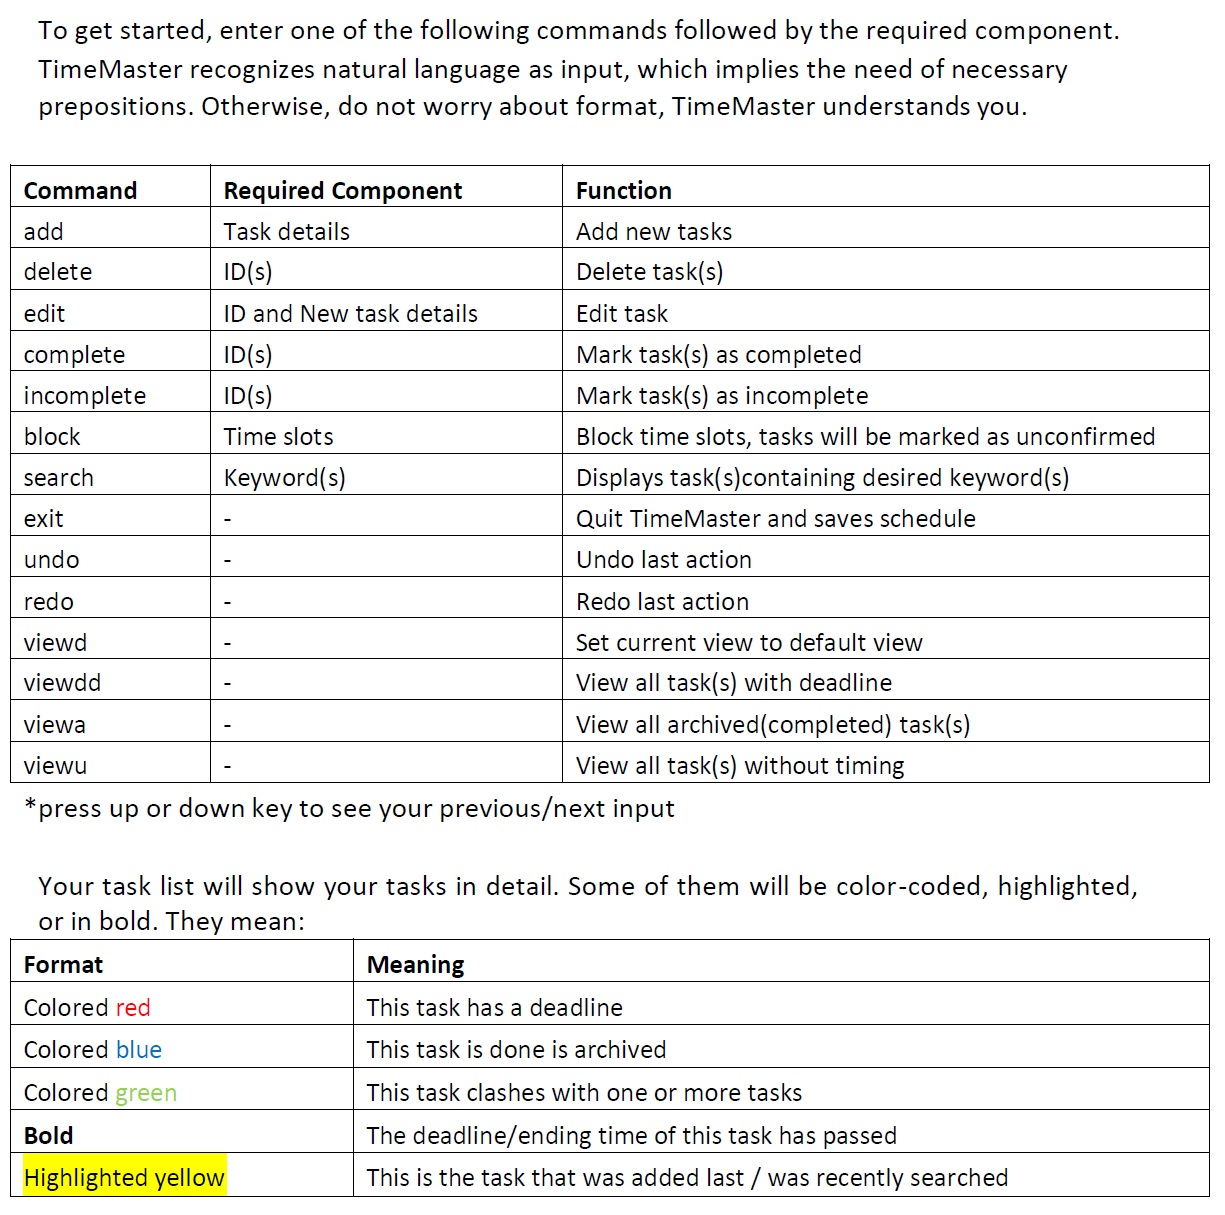
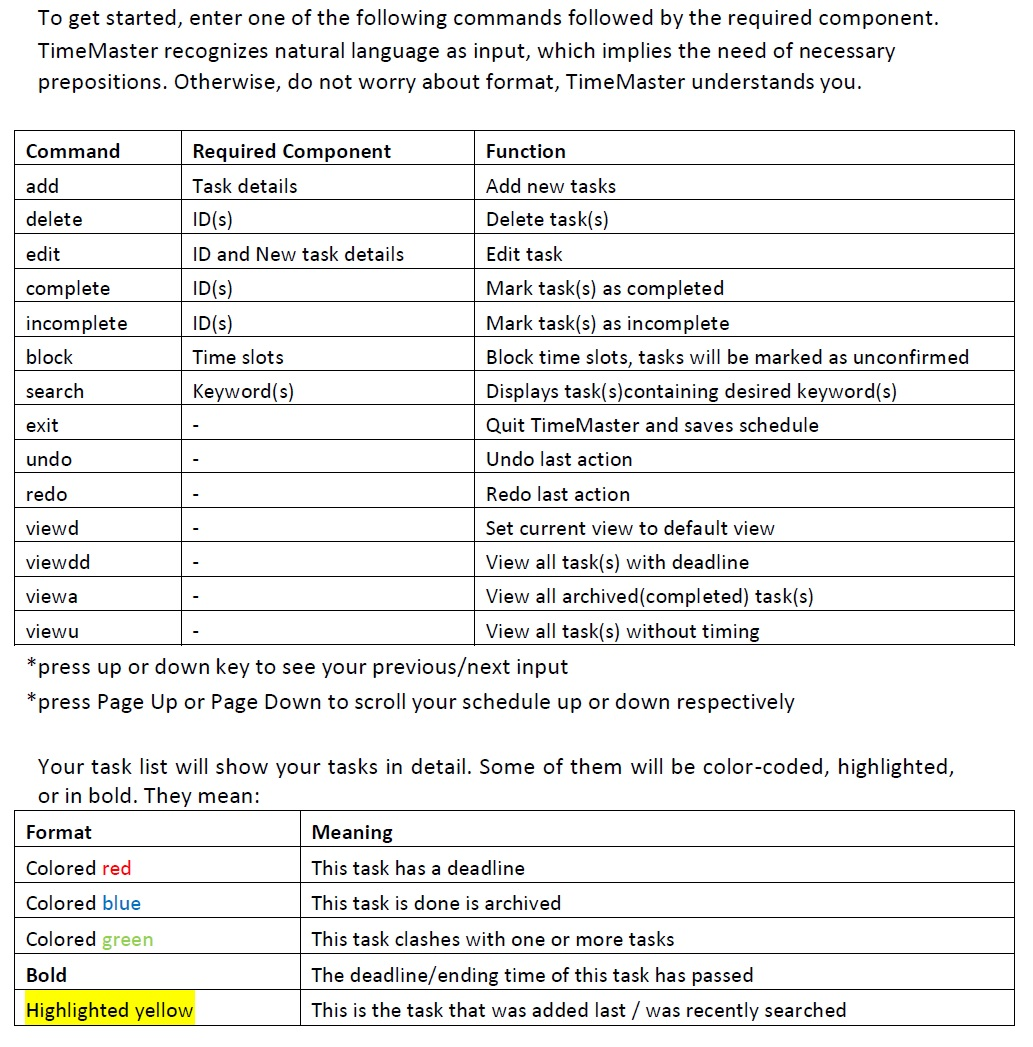
improved help, refactored GUI

Changed region(s): [[0.0, 0.1223, 0.9913, 1.0], [0.031, 0.0, 0.9293, 0.0917], [0.1549, 0.1223, 0.4027, 0.5196]]

diff --git a/TMGUI/TMGUserInterface.h b/TMGUI/TMGUserInterface.h
@@ -71,6 +71,22 @@ namespace TMGUI {
 			Application::Run(gcnew TMSplash);
 		}
 
+		void scrollListViewDown(){
+			defaultView->Focus();
+			SendKeys :: SendWait ("{PGDN}");
+			userInput->Focus();
+		}
+
+		void scrollListViewUp(){
+			defaultView->Focus();
+			SendKeys :: SendWait ("{PGUP}");
+			userInput->Focus();
+		}
+
+		void openHelp(){
+			ShellExecuteA(NULL,"open","..\\QuickGuide.jpg",NULL,NULL,0);
+		}
+
 		void processRealTime(){
 			
 			 TMParser* inputParser = TMParser :: getInstance();
@@ -721,21 +737,16 @@ private: System::Void userInput_KeyDown(System::Object^  sender, System::Windows
 			
 			 TMExecutor* exe = TMExecutor :: getInstance();
 			 std::vector<std::string> userEntries = exe -> getUserInput();
-
 			 String ^ entry = userInput->Text;
 			 std::string originalEntry = msclr::interop::marshal_as<std::string>(entry);
 
 			 if(e->KeyCode == Keys:: PageDown){
-				defaultView->Focus();
-				SendKeys :: SendWait ("{PGDN}");
-				userInput->Focus();
+				scrollListViewDown();
 			 } else if(e->KeyCode == Keys:: PageUp){
-				defaultView->Focus();
-				SendKeys :: SendWait ("{PGUP}");
-				userInput->Focus();
+				scrollListViewUp();
 			 } else if(e->KeyCode == Keys::F1){
-				ShellExecuteA(NULL,"open","..\\QuickGuide.jpg",NULL,NULL,0);
-			 } else if(e->KeyCode == Keys:: Up){
+				openHelp();
+			 } else if(e->KeyCode == Keys:: Up){ //pressing up will show previous user input
 				 if(userEntries.size() == 0){
 					 return;
 				 }
@@ -754,7 +765,7 @@ private: System::Void userInput_KeyDown(System::Object^  sender, System::Windows
 						}
 					}
 				 }
-			 } else if (e->KeyCode == Keys::Down){
+			 } else if (e->KeyCode == Keys::Down){ //pressing down will show next user input(if there is one)
 				 userInput -> Clear();
 				 if(originalEntry == ""){
 					 userInput -> Text = gcnew String (userEntries.front().c_str());

diff --git a/TMGUI/TMSplash.h b/TMGUI/TMSplash.h
@@ -10,7 +10,7 @@ namespace TMGUI {
 	using namespace System::Drawing;
 
 	/// <summary>
-	/// Summary for TMSplash
+	///  This class is created to produce splash screen at the startup of TimeMaster
 	/// </summary>
 	public ref class TMSplash : public System::Windows::Forms::Form
 	{
@@ -18,9 +18,6 @@ namespace TMGUI {
 		TMSplash(void)
 		{
 			InitializeComponent();
-			//
-			//TODO: Add the constructor code here
-			//
 		}
 
 	protected:
